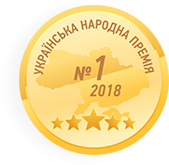
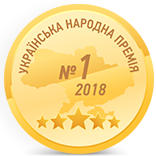
320 b7

diff --git a/src/html/rewards.html b/src/html/rewards.html
@@ -1,0 +1,86 @@
+<div class="rewards-container--fluid">
+  <div class="rewards-container">
+    <div class="rewards-description">
+      <h2 class="rewards-subtitle">
+        [ Кто мы такие и почему всё это рассказываем_ ]
+      </h2>
+      <h3 class="rewards-name">
+        [ Награды ]
+      </h3>
+    </div>
+    <div class="rewards-cards">
+      <div class="rewards-card">
+        <div class="rewards-card__number">01</div>
+        <h4 class="rewards-card__title">Best IT Eduсation 2015</h4>
+        <p class="rewards-card__description">
+          <b>Награждена компания GoIT</b> за вклад в подготовку сильных
+          Junior-специалистов
+        </p>
+        <img
+          srcset="../images/education.png, ../images/education@2x.png 2x"
+          src="../images/education.png"
+          alt="education"
+          class="rewards-card__img"
+        />
+      </div>
+      <div class="rewards-card">
+        <div class="rewards-card__number">02</div>
+        <h4 class="rewards-card__title">Ukranian IT Awards 2016</h4>
+        <p class="rewards-card__description">
+          <b> Награжден сооснователь GoIT Андрей Пивоваров</b> за выдающийся
+          вклад в IT-обучение украинских Junior-разработчиков
+        </p>
+        <img
+          srcset="../images/awords.png, ../images/awords.png@2x.png 2x"
+          src="../images/awords.png"
+          alt="awords.png"
+          class="rewards-card__img"
+        />
+      </div>
+      <div class="rewards-card">
+        <div class="rewards-card__number">03</div>
+        <h4 class="rewards-card__title">Украинская Народная Премия 2018</h4>
+        <p class="rewards-card__description">
+          <b>Победа в номинации IT-образование 2018</b> Всеукраинский
+          национальный проект определил GoIT лидером в области IT образования
+        </p>
+        <img
+          srcset="../images/medal.png, ../images/medal@2x.png 2x"
+          src="../images/medal.png"
+          alt="education"
+          class="rewards-card__img"
+        />
+      </div>
+    </div>
+    <div class="rewards-social">
+      <h3 class="rewards-name rewards-name--bgnd">[ Go for IT ]</h3>
+      <h4 class="rewards-social__title">GoIT выиграла тендер ПР ООН Украина</h4>
+      <p class="rewards-social__description">
+        На реализацию социального проекта по бесплатному обучению Frontend. Мы
+        стали самой молодой компанией -партнером ПР ООН. В рамках проекта Go for
+        IT мы обязались обучить Frontend-разработке 300 переселенцев.
+      </p>
+    </div>
+    <div class="rewards-partners">
+      <h3 class="rewards-name rewards-name--bgnd">[ Партнеры ]</h3>
+    </div>
+          <div class="rewards-partners__logo">
+              <img src="../images/icons/Layer 327.svg" alt="epam" class="rewards-logo">
+              <img src="../images/icons/Layer 328.svg" alt="kuehne+nagel" class="rewards-logo">
+              <img src="../images/icons/Layer 331.svg" alt="crytek" class="rewards-logo">
+              <img src="../images/icons/Layer 330.svg" alt="ciklum" class="rewards-logo">
+              <img src="../images/icons/Layer 336.svg" alt="inovecs" class="rewards-logo">
+              <img src="../images/icons/Layer 342.svg" alt="softverse" class="rewards-logo">
+              <img src="../images/icons/Layer 333.svg" alt="globallogic" class="rewards-logo">
+              <img src="../images/icons/Layer 337.svg" alt="alfabank" class="rewards-logo">
+              <img src="../images/icons/Layer 334.svg" alt="goiteens" class="rewards-logo">
+              <img src="../images/icons/Layer 335.svg" alt="infopulse" class="rewards-logo">
+              <img src="../images/icons/Layer 343.svg" alt="ubisoft" class="rewards-logo">
+              <img src="../images/icons/Layer 341.svg" alt="luxoft" class="rewards-logo">
+              <img src="../images/icons/Layer 340.svg" alt="lenal" class="rewards-logo">
+              <img src="../images/icons/Layer 347.svg" alt="terrasoft" class="rewards-logo"> 
+              <img src="../images/icons/Layer 332.svg" alt="grossum" class="rewards-logo">
+              <img src="../images/icons/Layer 338.svg" alt="templatemonster" class="rewards-logo">
+          </div>
+  </div>
+</div>

diff --git a/src/sass/_rewards.scss b/src/sass/_rewards.scss
@@ -1,0 +1,136 @@
+.rewards-container--fluid {
+  width: 100%;
+  background-color: $txt-white;
+}
+.rewards-container {
+  padding-top: 34px;
+  width: 320px;
+  margin: auto;
+  min-height: 1094px;
+}
+.rewards-description {
+  width: 225px;
+  margin: auto;
+}
+.rewards-subtitle {
+  @include acrom(bold, 20px, $txt-black);
+  padding-bottom: 35px;
+  text-align: left;
+  line-height: 1.5;
+}
+.rewards-name {
+  @include acrom(800, 16px, $txt-black);
+  &--bgnd {
+    background-color: #edf0f2;
+    display: inline;
+  }
+}
+.rewards-cards {
+  padding-top: 25px;
+}
+.rewards-card {
+  position: relative;
+  margin: auto;
+  width: 225px;
+  height: 414px;
+  background-color: $txt-white;
+  box-shadow: -25px 25px 5px #cbcecf, 10px -5px 20px #f0f0f0;
+  margin-bottom: 84px;
+  padding-top: 40px;
+}
+.rewards-card::before {
+  content: '';
+  border: 2px solid $txt-akcent-l;
+  width: 60px;
+  display: block;
+  position: absolute;
+  left: -14px;
+  top: 24px;
+  z-index: 1;
+}
+.rewards-card__number {
+  @include monts(70px, #edf0f2);
+  position: absolute;
+  margin: 0;
+  padding: 0;
+  right: 0;
+  top: -50px;
+  height: 50px;
+  overflow: hidden;
+}
+.rewards-card__title {
+  margin: 0;
+  padding-left: 26px;
+  @include acrom(800, 18px, $txt-black);
+  text-transform: uppercase;
+  line-height: 1.3;
+  width: 140px;
+  padding-bottom: 10px;
+}
+.rewards-card__description {
+  margin: 0;
+  width: 188px;
+  @include acrom(regular, 14px, $txt-black);
+  padding-left: 26px;
+  line-height: 1.5;
+}
+.rewards-card__img {
+  position: absolute;
+  bottom: 30px;
+  left: 50%;
+  transform: translate(-50%);
+}
+
+.rewards-social {
+  background-image: url(../images/OOH.png);
+  background-repeat: no-repeat;
+  background-position: top center;
+  width: 225px;
+  margin: auto;
+}
+.rewards-social__title {
+  text-transform: uppercase;
+  @include acrom(800, 24px, $txt-black);
+  line-height: 1.4;
+  margin-bottom: 16px;
+}
+.rewards-social__description {
+  @include acrom(regular, 14px, $txt-black);
+  line-height: 1.5;
+}
+.rewards-partners {
+  width: 225px;
+  margin: auto;
+}
+.rewards-partners__logo{
+    padding-top: 40px;
+    padding-bottom: 50px;
+    width: 320px;
+}
+.rewards-logo{
+    padding: 10px 15px;
+}
+//   @media (min-width: 768px){
+//     .rewards-container {
+//         width: 768px;
+//         min-height: 696px;
+//       }
+//       .rewards-description{
+//         width: 600px;
+
+//     }
+//     .rewards-subtitle {
+//         @include acrom(800, 30px, $txt-black);
+//         padding-bottom: 15px;
+//         text-align: left;
+//         line-height: 1.5;
+//       }
+//       .rewards-name{
+//         @include acrom(800, 16px, $txt-black);
+//         padding-bottom: 25px;
+//       }
+//       .rewards-cards{
+//           display: flex;
+//           justify-content: space-around;
+//       }
+//   }

diff --git a/gulpfile.js b/gulpfile.js
@@ -63,7 +63,7 @@ function sprite() {
 }
 
 function images() {
-  return src(['src/images/**/*.{png,jpg,jpeg,svg}', '!src/images/icons/**/*'])
+  return src(['src/images/**/*.{png,jpg,jpeg,svg}'])
    // .pipe(
     //  imagemin([
     //    imagemin.jpegtran({ progressive: true }),

diff --git a/src/index.html b/src/index.html
@@ -10,5 +10,6 @@
   <body>
     //="html/header.html"
     //="html/free-access.html"
+    //="html/rewards.html"
     </body>
 </html>

diff --git a/src/sass/styles.scss b/src/sass/styles.scss
@@ -6,4 +6,5 @@
 @import './variables';
 @import './header.scss';
 @import './free-access';
+@import './rewards'
 
